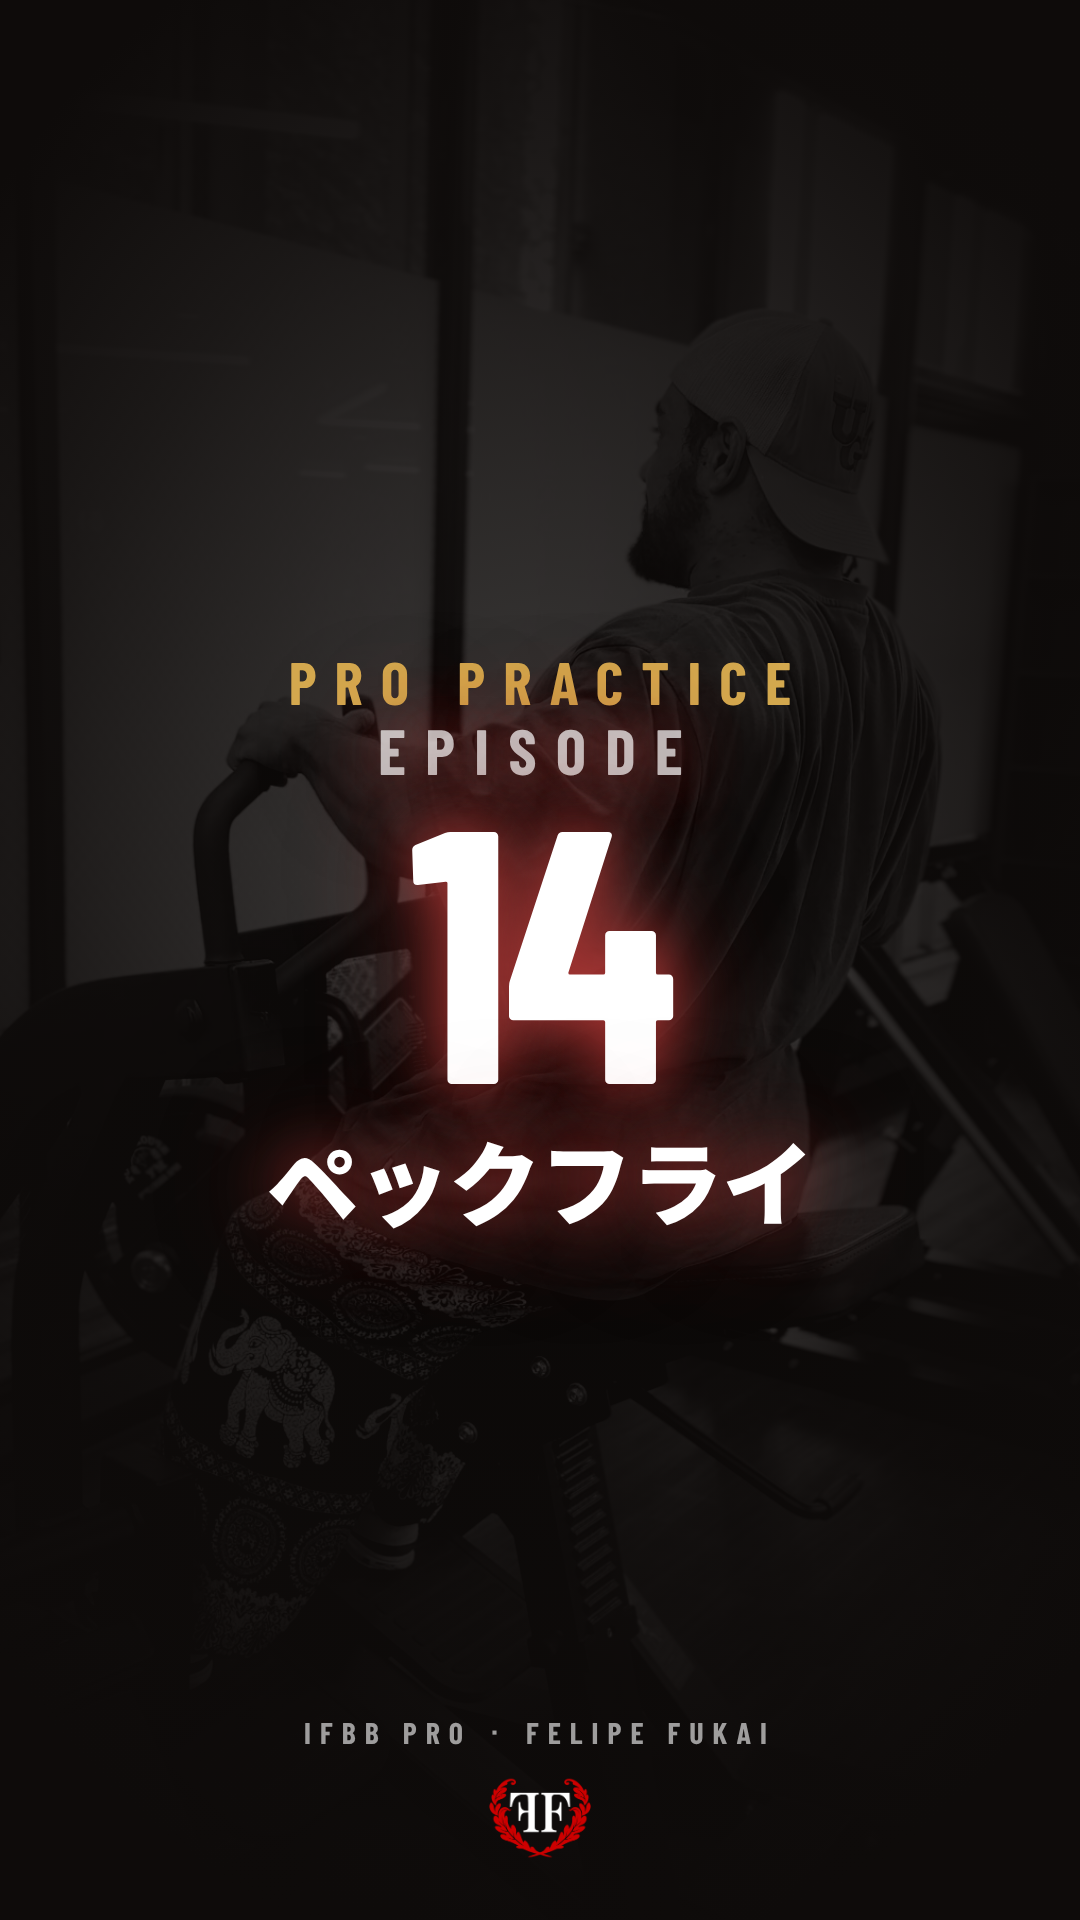
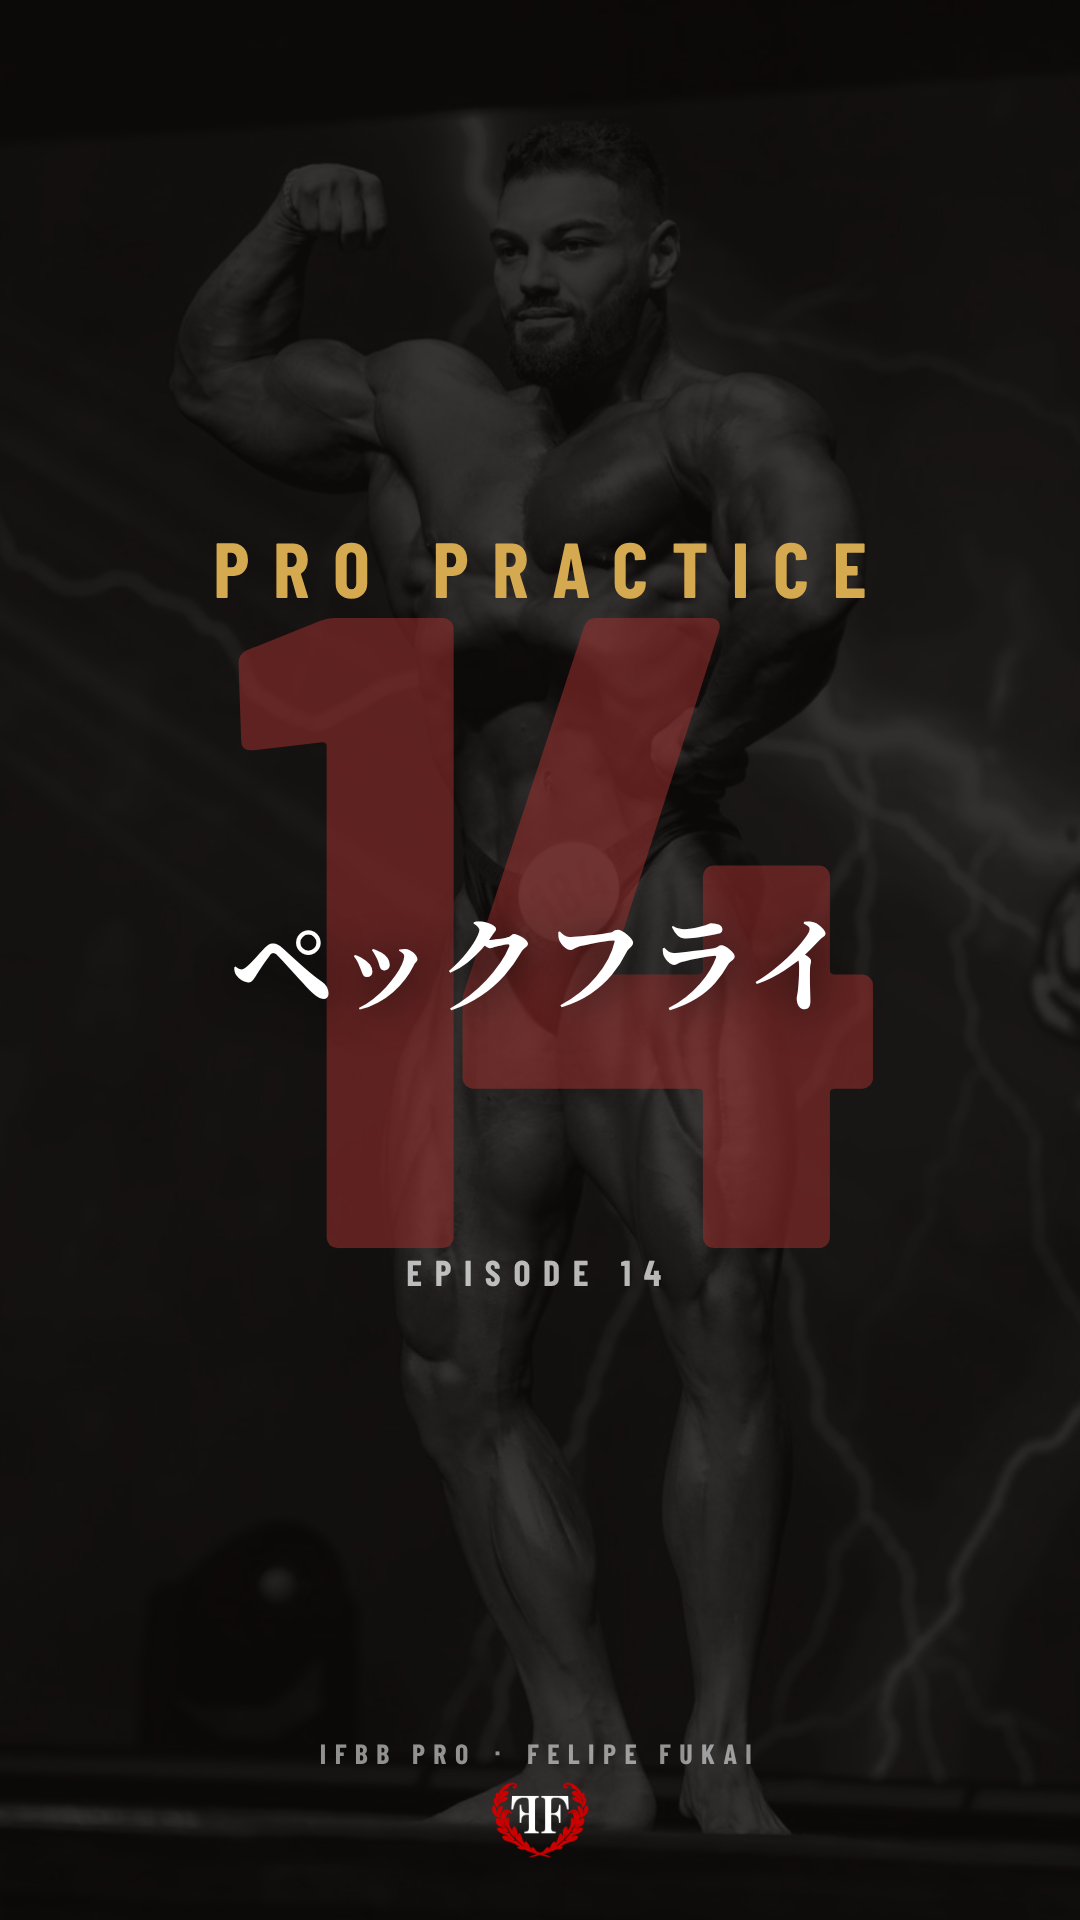
PRO PRACTICE covers: red ghost number, serif name, posing photo (#57)
* Add UPPER DAY YouTube thumbnails (part 1, 2) and the series thumbnail template

Claude-Session: https://claude.ai/code/session_01HRty6kL8VRnpLHHHzSF3iS

* UPPER DAY thumbnails: reframe to keep the face visible and hide the burned-in caption

Claude-Session: https://claude.ai/code/session_01HRty6kL8VRnpLHHHzSF3iS

* UPPER DAY thumbnails v2: loud yellow/red creator style, distinct from the community look

Claude-Session: https://claude.ai/code/session_01HRty6kL8VRnpLHHHzSF3iS

* UPPER DAY thumbnails v3: competition roar photo plus gym face chip

Claude-Session: https://claude.ai/code/session_01HRty6kL8VRnpLHHHzSF3iS

* UPPER DAY thumbnails: soften hook to Felipe's voice

Claude-Session: https://claude.ai/code/session_01HRty6kL8VRnpLHHHzSF3iS

* UPPER DAY thumbnails: keep the hook line on one row

Claude-Session: https://claude.ai/code/session_01HRty6kL8VRnpLHHHzSF3iS

* UPPER DAY thumbnails: hook label on one line

Claude-Session: https://claude.ai/code/session_01HRty6kL8VRnpLHHHzSF3iS

* UPPER DAY thumbnails on the brand guide: FF black base, white type, laurel red as the single accent, gym press photo; add visual identity PDF

Claude-Session: https://claude.ai/code/session_01HRty6kL8VRnpLHHHzSF3iS

* UPPER DAY thumbnail: three promise-led headline variants on the brand template

Claude-Session: https://claude.ai/code/session_01HRty6kL8VRnpLHHHzSF3iS

* Add post-live story images (thanks + next live 11/23) and story template
[…]

diff --git a/assets/ig/pro-practice/cover-template.html b/assets/ig/pro-practice/cover-template.html
@@ -1,29 +1,15 @@
-<!doctype html><html lang="ja"><head><meta charset="utf-8"><style>
-@font-face{font-family:"NS";src:url("../fonts/node_modules/@fontsource/noto-sans-jp/files/noto-sans-jp-japanese-900-normal.woff2") format("woff2");font-weight:900}
+<!doctype html><html lang="ja"><head><meta charset="utf-8"><style>@font-face{font-family:"NS";src:url("../fonts/node_modules/@fontsource/noto-sans-jp/files/noto-sans-jp-japanese-900-normal.woff2") format("woff2");font-weight:900}
 @font-face{font-family:"NS";src:url("../fonts/node_modules/@fontsource/noto-sans-jp/files/noto-sans-jp-japanese-700-normal.woff2") format("woff2");font-weight:700}
+@font-face{font-family:"NSJ";src:url("../fonts/node_modules/@fontsource/noto-serif-jp/files/noto-serif-jp-japanese-700-normal.woff2") format("woff2");font-weight:700}
 @font-face{font-family:"BC";src:url("../fonts/node_modules/@fontsource/barlow-condensed/files/barlow-condensed-latin-700-normal.woff2") format("woff2");font-weight:700}
-*{margin:0;padding:0;box-sizing:border-box}html,body{width:1080px;height:1920px;overflow:hidden;background:#0E0B0A}
-body{font-family:"NS",sans-serif;color:#fff;position:relative}
-.bg{position:absolute;inset:0;background:url(photo.jpg) 55% 30%/cover no-repeat;filter:grayscale(1) contrast(1.15);opacity:.26}
-.fade{position:absolute;inset:0;background:radial-gradient(ellipse 70% 55% at 50% 48%,rgba(14,11,10,0) 0%,rgba(14,11,10,.75) 70%,#0E0B0A 100%)}
-.wrap{position:absolute;left:72px;right:72px;top:0;bottom:0;display:flex;flex-direction:column;align-items:center;justify-content:center;text-align:center;padding-bottom:40px}
-.lbl{font-family:"BC",sans-serif;font-size:60px;letter-spacing:.3em;color:#D4A94F;margin-left:.3em}
-.ep{font-family:"BC",sans-serif;font-size:360px;line-height:.85;letter-spacing:-.02em;color:#fff;margin:6px 0 30px}
-.ep small{font-size:64px;letter-spacing:.3em;color:rgba(255,255,255,.7);display:block;margin-bottom:10px;font-family:"BC",sans-serif}
-.bar{display:none}
-.name{font-size:92px;font-weight:900;line-height:1.22;letter-spacing:-.01em}
-.name.long{font-size:80px}
-.sub{font-size:40px;font-weight:700;color:rgba(255,255,255,.8);margin-top:18px}
-.pro{position:absolute;left:0;right:0;bottom:170px;text-align:center;font-family:"BC",sans-serif;font-size:30px;letter-spacing:.3em;color:rgba(255,255,255,.6)}
-.logo{position:absolute;left:50%;transform:translateX(-50%);bottom:60px;height:84px}
-.ep,.name{text-shadow:0 0 60px rgba(185,58,56,.95),0 0 120px rgba(185,58,56,.6)}
-</style></head><body>
-<div class="bg"></div><div class="fade"></div>
-<div class="wrap">
-  <p class="lbl">PRO PRACTICE</p>
-  <p class="ep"><small>EPISODE</small>01</p>
-  <p class="name long">プレートロード<br>インクラインプレス</p>
-</div>
-<p class="pro">IFBB PRO ・ FELIPE FUKAI</p>
-<img class="logo" src="logo.png" alt="">
-</body></html>
+*{margin:0;padding:0;box-sizing:border-box}html,body{width:1080px;height:1920px;overflow:hidden;background:#0E0B0A}body{position:relative;color:#fff}
+.pro{position:absolute;left:0;right:0;bottom:150px;text-align:center;font-family:"BC",sans-serif;font-size:28px;letter-spacing:.3em;color:rgba(255,255,255,.55)}
+.logo{position:absolute;left:50%;transform:translateX(-50%);bottom:60px;height:80px}
+.bg{position:absolute;inset:0;background:url(stage.jpg) 50% 12%/cover no-repeat;filter:grayscale(1);opacity:.18}
+.ghost{position:absolute;left:50%;top:50%;transform:translate(-50%,-58%);font-family:"BC",sans-serif;font-size:900px;line-height:1;color:#9C302E;opacity:.55;letter-spacing:-.04em}
+.lbl{position:absolute;left:0;right:0;top:520px;text-align:center;font-family:"BC",sans-serif;font-size:78px;letter-spacing:.3em;color:#D4A94F;margin-left:.3em}
+.name{position:absolute;left:60px;right:60px;top:50%;transform:translateY(-50%);text-align:center;font-family:"NSJ",serif;font-size:104px;font-weight:700;line-height:1.3;text-shadow:0 6px 40px rgba(0,0,0,.8)}
+.sm{position:absolute;left:0;right:0;top:1250px;text-align:center;font-family:"BC",sans-serif;font-size:36px;letter-spacing:.35em;color:rgba(255,255,255,.7)}
+</style></head><body><div class="bg"></div>
+<p class="ghost">01</p><p class="lbl">PRO PRACTICE</p>
+<p class="name" style="font-size:104px">プレートロード<br>インクラインプレス</p><p class="sm">EPISODE 01</p><p class="pro">IFBB PRO ・ FELIPE FUKAI</p><img class="logo" src="logo.png" alt=""></body></html>
